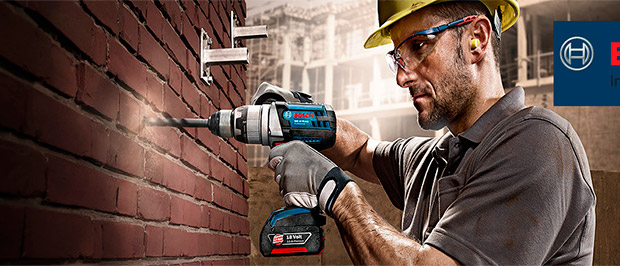
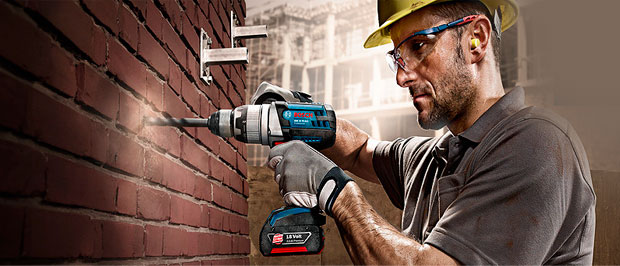
18012016

diff --git a/src/index.html b/src/index.html
@@ -90,7 +90,14 @@
           </div>
           <div class="top-block__row2">
             <div class="top-block__col1">
-              <div class="slider"><img src="img/img_slider_drill.jpg" width="620" height="266" class="slider__image"/></div>
+              <div class="slider"> <img src="img/img_slider_drill.jpg" width="622" height="266" alt="Дрели соседям на радость" class="slider__image"/>
+                <div class="slider__layout">                                   
+                  <div class="slider__header">
+                    <h4>Дрели</h4>
+                    <p>Соседям на радость!</p>
+                  </div><a href="#" class="btn-lnk">Открыть каталог</a>
+                </div>
+              </div>
             </div>
             <div class="top-block__col2"> 
               <div class="banner-card-goods banner-card-goods--green">

diff --git a/src/less/style.less b/src/less/style.less
@@ -466,7 +466,38 @@ body{
 
 .slider{
     
-    width: 610px;
+    width: 622px;
+    height: 266px;
+    
+    &__layout{
+                
+        padding: 0 25px;
+        position: relative;
+        
+    }
+    
+    &__header{
+        
+        position: absolute;
+        top:0;
+        left:0;
+        z-index: 100;
+        
+        color: @color-green;
+        width: 622px;
+        height: 105px;
+        
+        text-align: left;
+        
+        
+        h4{
+            
+            text-transform: uppercase;
+            
+        }
+        
+    }
+    
     
 }
 

diff --git a/src/css/style.css b/src/css/style.css
@@ -271,6 +271,24 @@ body {
   padding-bottom: 31px;
 }
 .slider {
-  width: 610px;
+  width: 622px;
+  height: 266px;
+}
+.slider__layout {
+  padding: 0 25px;
+  position: relative;
+}
+.slider__header {
+  position: absolute;
+  top: 0;
+  left: 0;
+  z-index: 100;
+  color: #63a63e;
+  width: 622px;
+  height: 105px;
+  text-align: left;
+}
+.slider__header h4 {
+  text-transform: uppercase;
 }
 /*# sourceMappingURL=src/css/style.css.map */
